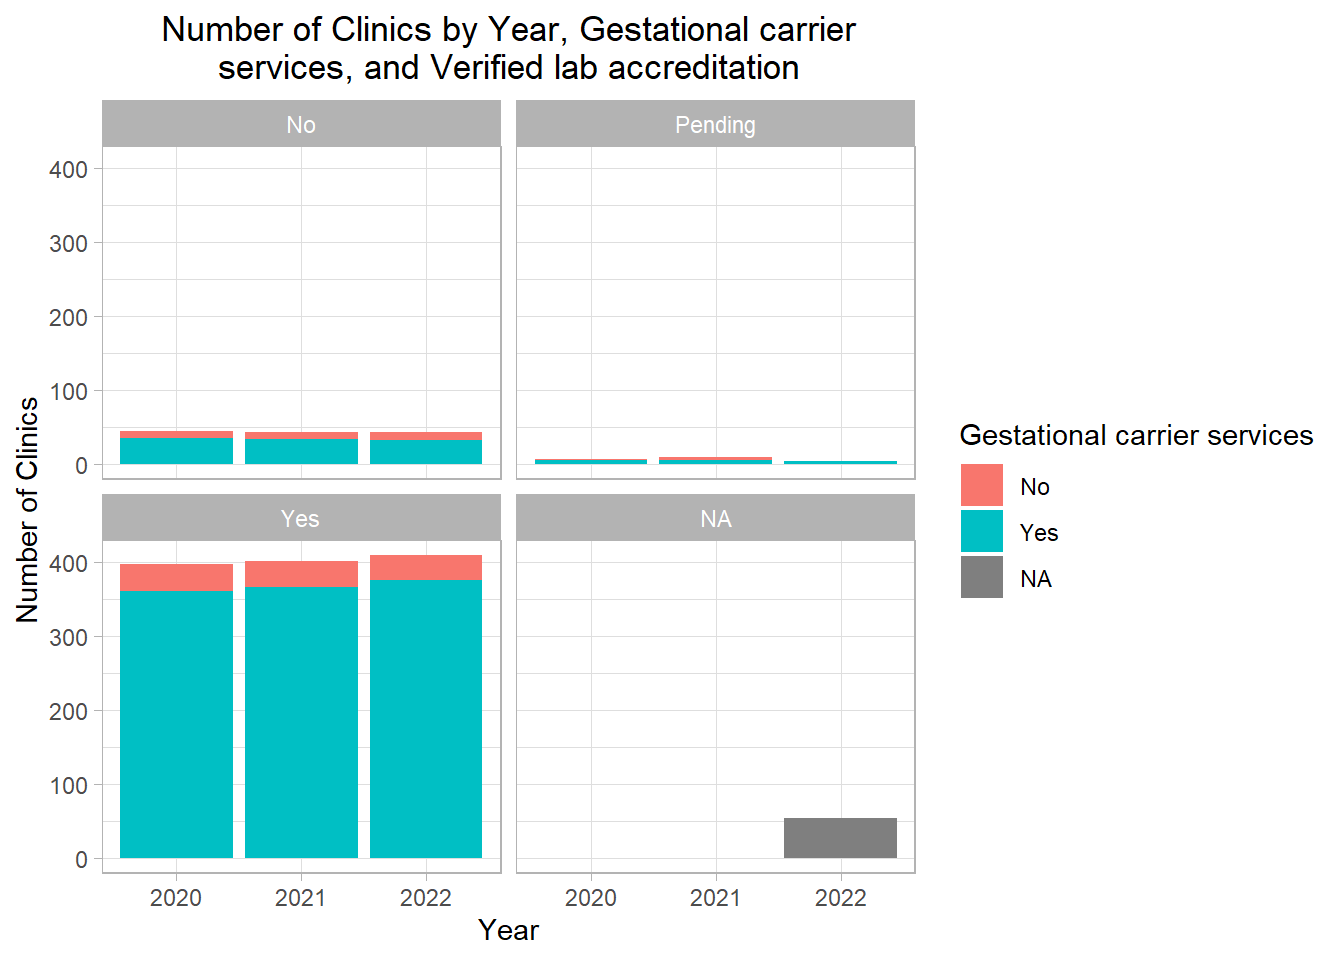
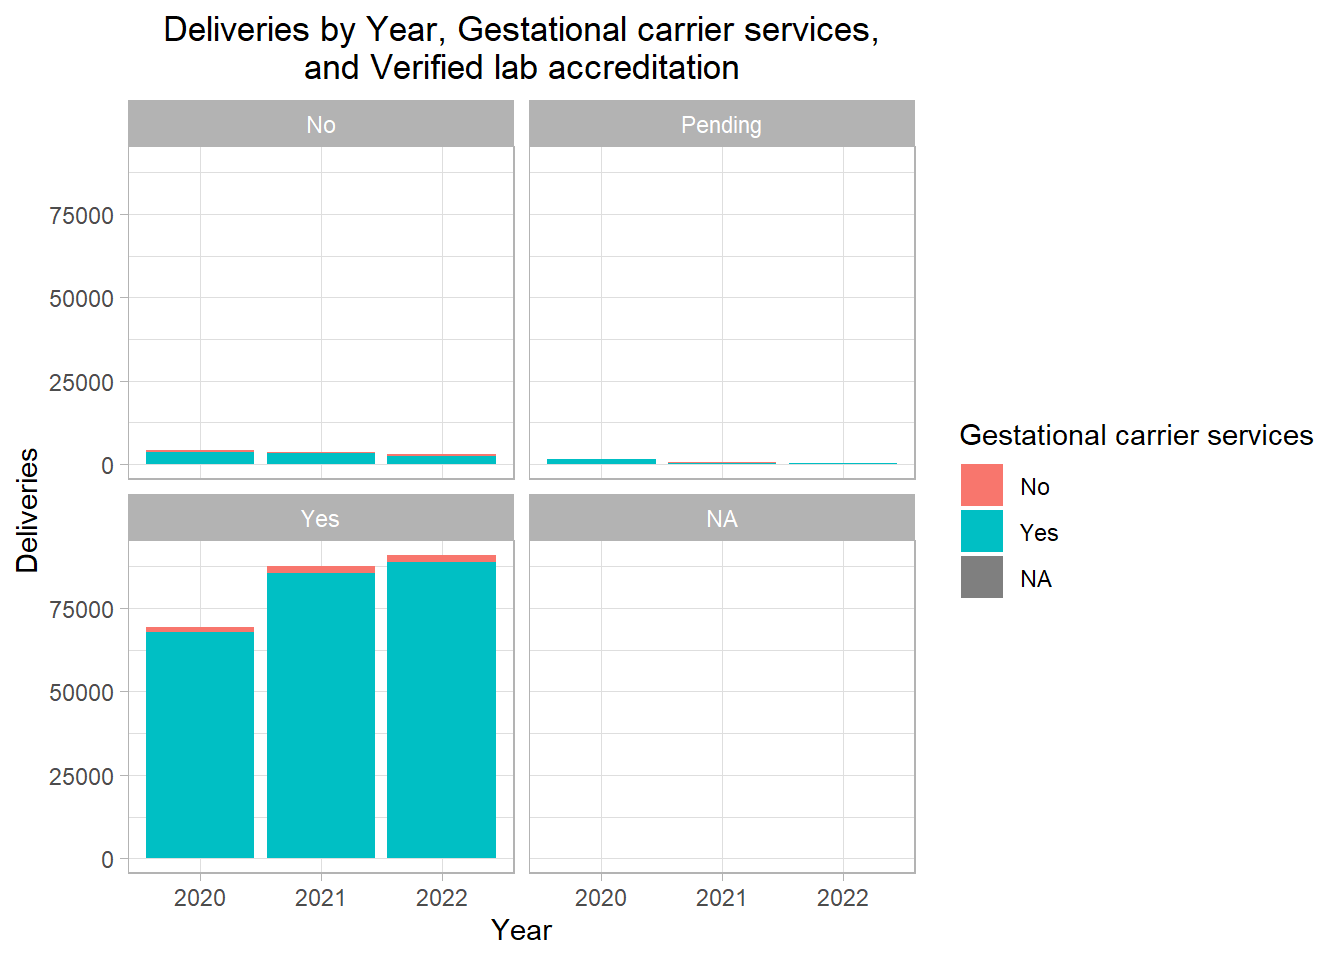
Add Plot 1 to app + general code cleanup.

diff --git a/docs/Data Investigation.html b/docs/Data Investigation.html
@@ -604,10 +604,13 @@ TOP01
 <h3 class="anchored" data-anchor-id="plot-1-bar-chart">Plot 1: Bar Chart</h3>
 <div class="cell">
 <div class="code-copy-outer-scaffold"><div class="sourceCode cell-code" id="cb46"><pre class="sourceCode r code-with-copy"><code class="sourceCode r"><span id="cb46-1"><a href="#cb46-1" aria-hidden="true" tabindex="-1"></a><span class="fu">ggplot</span>(<span class="at">data =</span> CDC,</span>
-<span id="cb46-2"><a href="#cb46-2" aria-hidden="true" tabindex="-1"></a>       <span class="fu">aes</span>(<span class="at">x =</span> Year, <span class="at">fill =</span> <span class="st">`</span><span class="at">Gestational carrier services</span><span class="st">`</span>)) <span class="sc">+</span></span>
-<span id="cb46-3"><a href="#cb46-3" aria-hidden="true" tabindex="-1"></a>  <span class="fu">geom_bar</span>() <span class="sc">+</span></span>
-<span id="cb46-4"><a href="#cb46-4" aria-hidden="true" tabindex="-1"></a>  <span class="fu">labs</span>(<span class="at">y =</span> <span class="st">"Number of Clinics"</span>) <span class="sc">+</span></span>
-<span id="cb46-5"><a href="#cb46-5" aria-hidden="true" tabindex="-1"></a>  <span class="fu">labs</span>(<span class="at">title =</span> <span class="fu">str_wrap</span>(<span class="st">"Number of Clinics by Year and Gestational carrier services"</span>, <span class="at">width =</span> <span class="dv">50</span>))</span></code></pre></div><button title="Copy to Clipboard" class="code-copy-button"><i class="bi"></i></button></div>
+<span id="cb46-2"><a href="#cb46-2" aria-hidden="true" tabindex="-1"></a>       <span class="fu">aes</span>(<span class="at">x =</span> Year, <span class="at">y =</span> Deliveries, <span class="at">fill =</span> <span class="st">`</span><span class="at">Gestational carrier services</span><span class="st">`</span>)) <span class="sc">+</span></span>
+<span id="cb46-3"><a href="#cb46-3" aria-hidden="true" tabindex="-1"></a>  <span class="fu">geom_col</span>() <span class="sc">+</span></span>
+<span id="cb46-4"><a href="#cb46-4" aria-hidden="true" tabindex="-1"></a>  <span class="fu">labs</span>(<span class="at">title =</span> <span class="fu">str_wrap</span>(<span class="st">"Deliveries by Year and Gestational carrier services"</span>, <span class="at">width =</span> <span class="dv">50</span>))</span></code></pre></div><button title="Copy to Clipboard" class="code-copy-button"><i class="bi"></i></button></div>
+<div class="cell-output cell-output-stderr">
+<pre><code>Warning: Removed 76 rows containing missing values or values outside the scale range
+(`geom_col()`).</code></pre>
+</div>
 <div class="cell-output-display">
 <div>
 <figure class="figure">
@@ -620,12 +623,12 @@ TOP01
 <section id="plot-2-smoothed-histogram" class="level3">
 <h3 class="anchored" data-anchor-id="plot-2-smoothed-histogram">Plot 2: Smoothed Histogram</h3>
 <div class="cell">
-<div class="code-copy-outer-scaffold"><div class="sourceCode cell-code" id="cb47"><pre class="sourceCode r code-with-copy"><code class="sourceCode r"><span id="cb47-1"><a href="#cb47-1" aria-hidden="true" tabindex="-1"></a><span class="fu">ggplot</span>(<span class="at">data =</span> CDC <span class="sc">|&gt;</span></span>
-<span id="cb47-2"><a href="#cb47-2" aria-hidden="true" tabindex="-1"></a>         <span class="fu">filter</span>(Year <span class="sc">==</span> <span class="dv">2022</span>, Pregnancies <span class="sc">&lt;</span> <span class="dv">1500</span>) <span class="sc">|&gt;</span></span>
-<span id="cb47-3"><a href="#cb47-3" aria-hidden="true" tabindex="-1"></a>         <span class="fu">drop_na</span>(Pregnancies)) <span class="sc">+</span></span>
-<span id="cb47-4"><a href="#cb47-4" aria-hidden="true" tabindex="-1"></a>  <span class="fu">geom_density</span>(<span class="fu">aes</span>(<span class="at">alpha =</span> <span class="fl">0.5</span>, <span class="at">x =</span> Pregnancies,</span>
-<span id="cb47-5"><a href="#cb47-5" aria-hidden="true" tabindex="-1"></a>                   <span class="at">fill =</span> <span class="st">`</span><span class="at">Gestational carrier services</span><span class="st">`</span>)) <span class="sc">+</span></span>
-<span id="cb47-6"><a href="#cb47-6" aria-hidden="true" tabindex="-1"></a>  <span class="fu">labs</span>(<span class="at">title =</span> <span class="fu">str_wrap</span>(<span class="st">"Density of Pregnancies by Gestational carrier services"</span>, <span class="at">width =</span> <span class="dv">50</span>))</span></code></pre></div><button title="Copy to Clipboard" class="code-copy-button"><i class="bi"></i></button></div>
+<div class="code-copy-outer-scaffold"><div class="sourceCode cell-code" id="cb48"><pre class="sourceCode r code-with-copy"><code class="sourceCode r"><span id="cb48-1"><a href="#cb48-1" aria-hidden="true" tabindex="-1"></a><span class="fu">ggplot</span>(<span class="at">data =</span> CDC <span class="sc">|&gt;</span></span>
+<span id="cb48-2"><a href="#cb48-2" aria-hidden="true" tabindex="-1"></a>         <span class="fu">filter</span>(Year <span class="sc">==</span> <span class="dv">2022</span>, Pregnancies <span class="sc">&lt;</span> <span class="dv">1500</span>) <span class="sc">|&gt;</span></span>
+<span id="cb48-3"><a href="#cb48-3" aria-hidden="true" tabindex="-1"></a>         <span class="fu">drop_na</span>(Pregnancies)) <span class="sc">+</span></span>
+<span id="cb48-4"><a href="#cb48-4" aria-hidden="true" tabindex="-1"></a>  <span class="fu">geom_density</span>(<span class="fu">aes</span>(<span class="at">alpha =</span> <span class="fl">0.5</span>, <span class="at">x =</span> Pregnancies,</span>
+<span id="cb48-5"><a href="#cb48-5" aria-hidden="true" tabindex="-1"></a>                   <span class="at">fill =</span> <span class="st">`</span><span class="at">Gestational carrier services</span><span class="st">`</span>)) <span class="sc">+</span></span>
+<span id="cb48-6"><a href="#cb48-6" aria-hidden="true" tabindex="-1"></a>  <span class="fu">labs</span>(<span class="at">title =</span> <span class="fu">str_wrap</span>(<span class="st">"Density of Pregnancies by Gestational carrier services"</span>, <span class="at">width =</span> <span class="dv">50</span>))</span></code></pre></div><button title="Copy to Clipboard" class="code-copy-button"><i class="bi"></i></button></div>
 <div class="cell-output-display">
 <div>
 <figure class="figure">
@@ -638,12 +641,12 @@ TOP01
 <section id="plot-3-box-plot" class="level3">
 <h3 class="anchored" data-anchor-id="plot-3-box-plot">Plot 3: Box Plot</h3>
 <div class="cell">
-<div class="code-copy-outer-scaffold"><div class="sourceCode cell-code" id="cb48"><pre class="sourceCode r code-with-copy"><code class="sourceCode r"><span id="cb48-1"><a href="#cb48-1" aria-hidden="true" tabindex="-1"></a><span class="fu">ggplot</span>(<span class="at">data =</span> CDC <span class="sc">|&gt;</span></span>
-<span id="cb48-2"><a href="#cb48-2" aria-hidden="true" tabindex="-1"></a>         <span class="fu">filter</span>(Year <span class="sc">==</span> <span class="dv">2022</span>,</span>
-<span id="cb48-3"><a href="#cb48-3" aria-hidden="true" tabindex="-1"></a>                State <span class="sc">==</span> <span class="st">"North Carolina"</span>),</span>
-<span id="cb48-4"><a href="#cb48-4" aria-hidden="true" tabindex="-1"></a>       <span class="fu">aes</span>(<span class="at">x =</span> City, <span class="at">y =</span> Pregnancies, <span class="at">fill =</span> City)) <span class="sc">+</span></span>
-<span id="cb48-5"><a href="#cb48-5" aria-hidden="true" tabindex="-1"></a>  <span class="fu">geom_boxplot</span>() <span class="sc">+</span></span>
-<span id="cb48-6"><a href="#cb48-6" aria-hidden="true" tabindex="-1"></a>  <span class="fu">labs</span>(<span class="at">title =</span> <span class="fu">str_wrap</span>(<span class="st">"Pregnancies by City"</span>, <span class="at">width =</span> <span class="dv">50</span>))</span></code></pre></div><button title="Copy to Clipboard" class="code-copy-button"><i class="bi"></i></button></div>
+<div class="code-copy-outer-scaffold"><div class="sourceCode cell-code" id="cb49"><pre class="sourceCode r code-with-copy"><code class="sourceCode r"><span id="cb49-1"><a href="#cb49-1" aria-hidden="true" tabindex="-1"></a><span class="fu">ggplot</span>(<span class="at">data =</span> CDC <span class="sc">|&gt;</span></span>
+<span id="cb49-2"><a href="#cb49-2" aria-hidden="true" tabindex="-1"></a>         <span class="fu">filter</span>(Year <span class="sc">==</span> <span class="dv">2022</span>,</span>
+<span id="cb49-3"><a href="#cb49-3" aria-hidden="true" tabindex="-1"></a>                State <span class="sc">==</span> <span class="st">"North Carolina"</span>),</span>
+<span id="cb49-4"><a href="#cb49-4" aria-hidden="true" tabindex="-1"></a>       <span class="fu">aes</span>(<span class="at">x =</span> City, <span class="at">y =</span> Pregnancies, <span class="at">fill =</span> City)) <span class="sc">+</span></span>
+<span id="cb49-5"><a href="#cb49-5" aria-hidden="true" tabindex="-1"></a>  <span class="fu">geom_boxplot</span>() <span class="sc">+</span></span>
+<span id="cb49-6"><a href="#cb49-6" aria-hidden="true" tabindex="-1"></a>  <span class="fu">labs</span>(<span class="at">title =</span> <span class="fu">str_wrap</span>(<span class="st">"Pregnancies by City"</span>, <span class="at">width =</span> <span class="dv">50</span>))</span></code></pre></div><button title="Copy to Clipboard" class="code-copy-button"><i class="bi"></i></button></div>
 <div class="cell-output-display">
 <div>
 <figure class="figure">
@@ -656,15 +659,15 @@ TOP01
 <section id="plot-4-scatter-plot" class="level3">
 <h3 class="anchored" data-anchor-id="plot-4-scatter-plot">Plot 4: Scatter Plot</h3>
 <div class="cell">
-<div class="code-copy-outer-scaffold"><div class="sourceCode cell-code" id="cb49"><pre class="sourceCode r code-with-copy"><code class="sourceCode r"><span id="cb49-1"><a href="#cb49-1" aria-hidden="true" tabindex="-1"></a><span class="fu">ggplot</span>(<span class="at">data =</span> CDC <span class="sc">|&gt;</span></span>
-<span id="cb49-2"><a href="#cb49-2" aria-hidden="true" tabindex="-1"></a>         <span class="fu">filter</span>(Year <span class="sc">==</span> <span class="dv">2022</span>,</span>
-<span id="cb49-3"><a href="#cb49-3" aria-hidden="true" tabindex="-1"></a>                State <span class="sc">==</span> <span class="st">"North Carolina"</span>,</span>
-<span id="cb49-4"><a href="#cb49-4" aria-hidden="true" tabindex="-1"></a>                <span class="st">`</span><span class="at">Total cycles</span><span class="st">`</span> <span class="sc">&lt;</span> <span class="dv">10000</span>) <span class="sc">|&gt;</span></span>
-<span id="cb49-5"><a href="#cb49-5" aria-hidden="true" tabindex="-1"></a>         <span class="fu">drop_na</span>(<span class="st">`</span><span class="at">Total cycles</span><span class="st">`</span>, Pregnancies),</span>
-<span id="cb49-6"><a href="#cb49-6" aria-hidden="true" tabindex="-1"></a>       <span class="fu">aes</span>(<span class="at">x =</span> <span class="st">`</span><span class="at">Total cycles</span><span class="st">`</span>, <span class="at">y =</span> Pregnancies, <span class="at">color =</span> City)) <span class="sc">+</span></span>
-<span id="cb49-7"><a href="#cb49-7" aria-hidden="true" tabindex="-1"></a>  <span class="fu">geom_point</span>() <span class="sc">+</span></span>
-<span id="cb49-8"><a href="#cb49-8" aria-hidden="true" tabindex="-1"></a>  <span class="fu">geom_smooth</span>(<span class="at">method =</span> lm) <span class="sc">+</span> </span>
-<span id="cb49-9"><a href="#cb49-9" aria-hidden="true" tabindex="-1"></a>  <span class="fu">labs</span>(<span class="at">title =</span> <span class="fu">str_wrap</span>(<span class="st">"Pregnancies and Total cycles by City"</span>, <span class="at">width =</span> <span class="dv">50</span>))</span></code></pre></div><button title="Copy to Clipboard" class="code-copy-button"><i class="bi"></i></button></div>
+<div class="code-copy-outer-scaffold"><div class="sourceCode cell-code" id="cb50"><pre class="sourceCode r code-with-copy"><code class="sourceCode r"><span id="cb50-1"><a href="#cb50-1" aria-hidden="true" tabindex="-1"></a><span class="fu">ggplot</span>(<span class="at">data =</span> CDC <span class="sc">|&gt;</span></span>
+<span id="cb50-2"><a href="#cb50-2" aria-hidden="true" tabindex="-1"></a>         <span class="fu">filter</span>(Year <span class="sc">==</span> <span class="dv">2022</span>,</span>
+<span id="cb50-3"><a href="#cb50-3" aria-hidden="true" tabindex="-1"></a>                State <span class="sc">==</span> <span class="st">"North Carolina"</span>,</span>
+<span id="cb50-4"><a href="#cb50-4" aria-hidden="true" tabindex="-1"></a>                <span class="st">`</span><span class="at">Total cycles</span><span class="st">`</span> <span class="sc">&lt;</span> <span class="dv">10000</span>) <span class="sc">|&gt;</span></span>
+<span id="cb50-5"><a href="#cb50-5" aria-hidden="true" tabindex="-1"></a>         <span class="fu">drop_na</span>(<span class="st">`</span><span class="at">Total cycles</span><span class="st">`</span>, Pregnancies),</span>
+<span id="cb50-6"><a href="#cb50-6" aria-hidden="true" tabindex="-1"></a>       <span class="fu">aes</span>(<span class="at">x =</span> <span class="st">`</span><span class="at">Total cycles</span><span class="st">`</span>, <span class="at">y =</span> Pregnancies, <span class="at">color =</span> City)) <span class="sc">+</span></span>
+<span id="cb50-7"><a href="#cb50-7" aria-hidden="true" tabindex="-1"></a>  <span class="fu">geom_point</span>() <span class="sc">+</span></span>
+<span id="cb50-8"><a href="#cb50-8" aria-hidden="true" tabindex="-1"></a>  <span class="fu">geom_smooth</span>(<span class="at">method =</span> lm) <span class="sc">+</span> </span>
+<span id="cb50-9"><a href="#cb50-9" aria-hidden="true" tabindex="-1"></a>  <span class="fu">labs</span>(<span class="at">title =</span> <span class="fu">str_wrap</span>(<span class="st">"Pregnancies and Total cycles by City"</span>, <span class="at">width =</span> <span class="dv">50</span>))</span></code></pre></div><button title="Copy to Clipboard" class="code-copy-button"><i class="bi"></i></button></div>
 <div class="cell-output cell-output-stderr">
 <pre><code>`geom_smooth()` using formula = 'y ~ x'</code></pre>
 </div>
@@ -687,12 +690,15 @@ TOP01
 <section id="plot-5-faceted-bar-chart" class="level3">
 <h3 class="anchored" data-anchor-id="plot-5-faceted-bar-chart">Plot 5: Faceted Bar Chart</h3>
 <div class="cell">
-<div class="code-copy-outer-scaffold"><div class="sourceCode cell-code" id="cb53"><pre class="sourceCode r code-with-copy"><code class="sourceCode r"><span id="cb53-1"><a href="#cb53-1" aria-hidden="true" tabindex="-1"></a><span class="fu">ggplot</span>(<span class="at">data =</span> CDC,</span>
-<span id="cb53-2"><a href="#cb53-2" aria-hidden="true" tabindex="-1"></a>       <span class="fu">aes</span>(<span class="at">x =</span> Year, <span class="at">fill =</span> <span class="st">`</span><span class="at">Gestational carrier services</span><span class="st">`</span>)) <span class="sc">+</span></span>
-<span id="cb53-3"><a href="#cb53-3" aria-hidden="true" tabindex="-1"></a>  <span class="fu">geom_bar</span>() <span class="sc">+</span></span>
-<span id="cb53-4"><a href="#cb53-4" aria-hidden="true" tabindex="-1"></a>  <span class="fu">facet_wrap</span>(<span class="sc">~</span> <span class="st">`</span><span class="at">Verified lab accreditation</span><span class="st">`</span>) <span class="sc">+</span></span>
-<span id="cb53-5"><a href="#cb53-5" aria-hidden="true" tabindex="-1"></a>  <span class="fu">labs</span>(<span class="at">y =</span> <span class="st">"Number of Clinics"</span>) <span class="sc">+</span></span>
-<span id="cb53-6"><a href="#cb53-6" aria-hidden="true" tabindex="-1"></a>  <span class="fu">labs</span>(<span class="at">title =</span> <span class="fu">str_wrap</span>(<span class="st">"Number of Clinics by Year, Gestational carrier services, and Verified lab accreditation"</span>, <span class="at">width =</span> <span class="dv">50</span>))</span></code></pre></div><button title="Copy to Clipboard" class="code-copy-button"><i class="bi"></i></button></div>
+<div class="code-copy-outer-scaffold"><div class="sourceCode cell-code" id="cb54"><pre class="sourceCode r code-with-copy"><code class="sourceCode r"><span id="cb54-1"><a href="#cb54-1" aria-hidden="true" tabindex="-1"></a><span class="fu">ggplot</span>(<span class="at">data =</span> CDC,</span>
+<span id="cb54-2"><a href="#cb54-2" aria-hidden="true" tabindex="-1"></a>       <span class="fu">aes</span>(<span class="at">x =</span> Year, <span class="at">y =</span> Deliveries, <span class="at">fill =</span> <span class="st">`</span><span class="at">Gestational carrier services</span><span class="st">`</span>)) <span class="sc">+</span></span>
+<span id="cb54-3"><a href="#cb54-3" aria-hidden="true" tabindex="-1"></a>  <span class="fu">geom_col</span>() <span class="sc">+</span></span>
+<span id="cb54-4"><a href="#cb54-4" aria-hidden="true" tabindex="-1"></a>  <span class="fu">facet_wrap</span>(<span class="sc">~</span> <span class="st">`</span><span class="at">Verified lab accreditation</span><span class="st">`</span>) <span class="sc">+</span></span>
+<span id="cb54-5"><a href="#cb54-5" aria-hidden="true" tabindex="-1"></a>  <span class="fu">labs</span>(<span class="at">title =</span> <span class="fu">str_wrap</span>(<span class="st">"Deliveries by Year, Gestational carrier services, and Verified lab accreditation"</span>, <span class="at">width =</span> <span class="dv">50</span>))</span></code></pre></div><button title="Copy to Clipboard" class="code-copy-button"><i class="bi"></i></button></div>
+<div class="cell-output cell-output-stderr">
+<pre><code>Warning: Removed 76 rows containing missing values or values outside the scale range
+(`geom_col()`).</code></pre>
+</div>
 <div class="cell-output-display">
 <div>
 <figure class="figure">
@@ -705,16 +711,16 @@ TOP01
 <section id="plot-6-map" class="level3">
 <h3 class="anchored" data-anchor-id="plot-6-map">Plot 6: Map</h3>
 <div class="cell">
-<div class="code-copy-outer-scaffold"><div class="sourceCode cell-code" id="cb54"><pre class="sourceCode r code-with-copy"><code class="sourceCode r"><span id="cb54-1"><a href="#cb54-1" aria-hidden="true" tabindex="-1"></a><span class="fu">plot_usmap</span>(<span class="at">data =</span> CDC <span class="sc">|&gt;</span></span>
-<span id="cb54-2"><a href="#cb54-2" aria-hidden="true" tabindex="-1"></a>             <span class="fu">filter</span>(Year <span class="sc">==</span> <span class="dv">2022</span>) <span class="sc">|&gt;</span></span>
-<span id="cb54-3"><a href="#cb54-3" aria-hidden="true" tabindex="-1"></a>             <span class="fu">drop_na</span>(Pregnancies) <span class="sc">|&gt;</span></span>
-<span id="cb54-4"><a href="#cb54-4" aria-hidden="true" tabindex="-1"></a>             <span class="fu">rename</span>(<span class="at">state =</span> State) <span class="sc">|&gt;</span></span>
-<span id="cb54-5"><a href="#cb54-5" aria-hidden="true" tabindex="-1"></a>             <span class="fu">group_by</span>(state) <span class="sc">|&gt;</span></span>
-<span id="cb54-6"><a href="#cb54-6" aria-hidden="true" tabindex="-1"></a>             <span class="fu">summarize</span>(<span class="at">Pregnancies =</span> <span class="fu">sum</span>(Pregnancies)),</span>
-<span id="cb54-7"><a href="#cb54-7" aria-hidden="true" tabindex="-1"></a>           <span class="at">values =</span> <span class="st">"Pregnancies"</span>,</span>
-<span id="cb54-8"><a href="#cb54-8" aria-hidden="true" tabindex="-1"></a>           <span class="at">regions =</span> <span class="st">"states"</span>) <span class="sc">+</span></span>
-<span id="cb54-9"><a href="#cb54-9" aria-hidden="true" tabindex="-1"></a>  <span class="fu">scale_fill_continuous</span>(<span class="at">low =</span> <span class="st">"white"</span>, <span class="at">high =</span> <span class="st">"red"</span>, <span class="at">name =</span> <span class="st">"Pregnancies"</span>) <span class="sc">+</span></span>
-<span id="cb54-10"><a href="#cb54-10" aria-hidden="true" tabindex="-1"></a>  <span class="fu">labs</span>(<span class="at">title =</span> <span class="fu">str_wrap</span>(<span class="st">"Pregnancies by State"</span>, <span class="at">width =</span> <span class="dv">50</span>))</span></code></pre></div><button title="Copy to Clipboard" class="code-copy-button"><i class="bi"></i></button></div>
+<div class="code-copy-outer-scaffold"><div class="sourceCode cell-code" id="cb56"><pre class="sourceCode r code-with-copy"><code class="sourceCode r"><span id="cb56-1"><a href="#cb56-1" aria-hidden="true" tabindex="-1"></a><span class="fu">plot_usmap</span>(<span class="at">data =</span> CDC <span class="sc">|&gt;</span></span>
+<span id="cb56-2"><a href="#cb56-2" aria-hidden="true" tabindex="-1"></a>             <span class="fu">filter</span>(Year <span class="sc">==</span> <span class="dv">2022</span>) <span class="sc">|&gt;</span></span>
+<span id="cb56-3"><a href="#cb56-3" aria-hidden="true" tabindex="-1"></a>             <span class="fu">drop_na</span>(Pregnancies) <span class="sc">|&gt;</span></span>
+<span id="cb56-4"><a href="#cb56-4" aria-hidden="true" tabindex="-1"></a>             <span class="fu">rename</span>(<span class="at">state =</span> State) <span class="sc">|&gt;</span></span>
+<span id="cb56-5"><a href="#cb56-5" aria-hidden="true" tabindex="-1"></a>             <span class="fu">group_by</span>(state) <span class="sc">|&gt;</span></span>
+<span id="cb56-6"><a href="#cb56-6" aria-hidden="true" tabindex="-1"></a>             <span class="fu">summarize</span>(<span class="at">Pregnancies =</span> <span class="fu">sum</span>(Pregnancies)),</span>
+<span id="cb56-7"><a href="#cb56-7" aria-hidden="true" tabindex="-1"></a>           <span class="at">values =</span> <span class="st">"Pregnancies"</span>,</span>
+<span id="cb56-8"><a href="#cb56-8" aria-hidden="true" tabindex="-1"></a>           <span class="at">regions =</span> <span class="st">"states"</span>) <span class="sc">+</span></span>
+<span id="cb56-9"><a href="#cb56-9" aria-hidden="true" tabindex="-1"></a>  <span class="fu">scale_fill_continuous</span>(<span class="at">low =</span> <span class="st">"white"</span>, <span class="at">high =</span> <span class="st">"red"</span>, <span class="at">name =</span> <span class="st">"Pregnancies"</span>) <span class="sc">+</span></span>
+<span id="cb56-10"><a href="#cb56-10" aria-hidden="true" tabindex="-1"></a>  <span class="fu">labs</span>(<span class="at">title =</span> <span class="fu">str_wrap</span>(<span class="st">"Pregnancies by State"</span>, <span class="at">width =</span> <span class="dv">50</span>))</span></code></pre></div><button title="Copy to Clipboard" class="code-copy-button"><i class="bi"></i></button></div>
 <div class="cell-output-display">
 <div>
 <figure class="figure">
